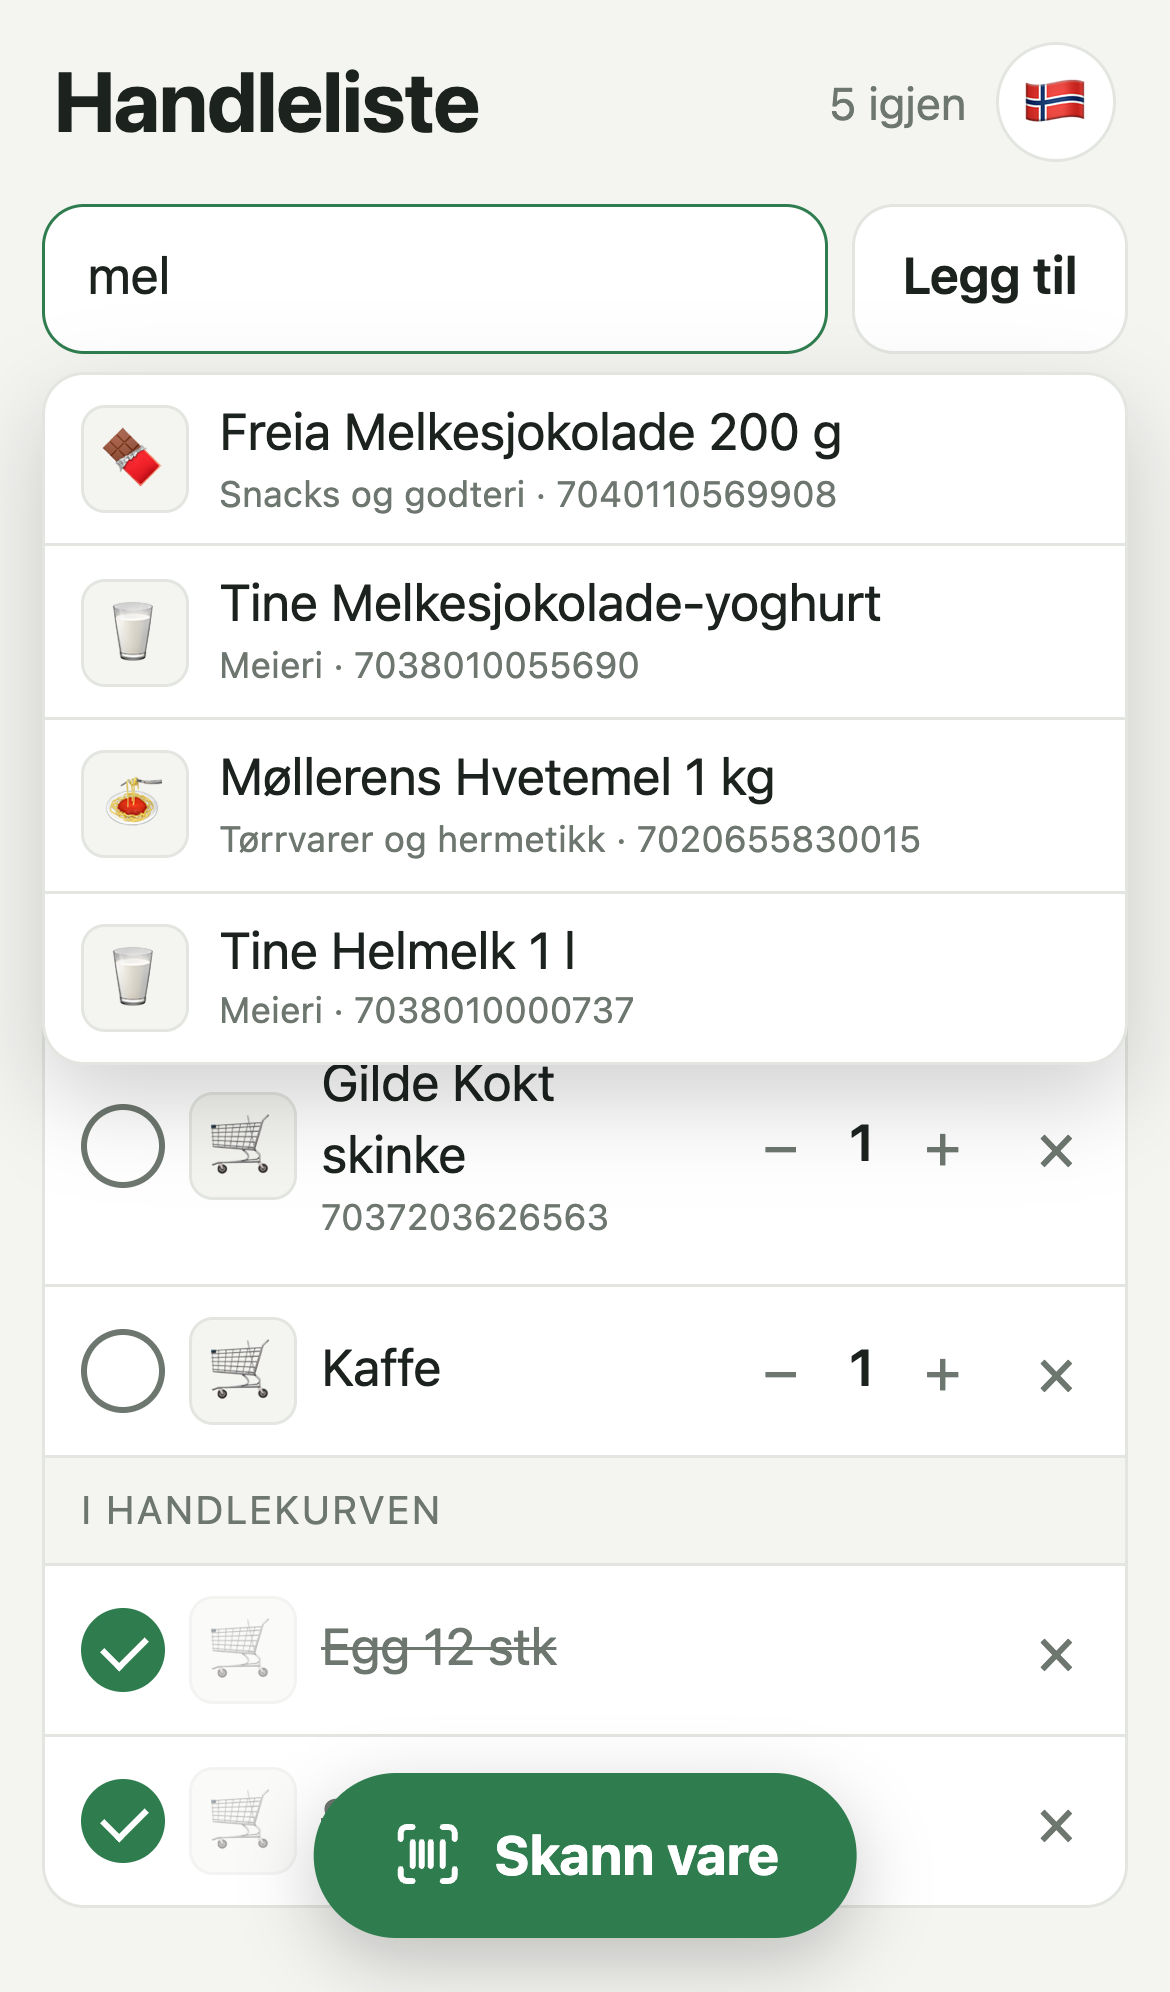
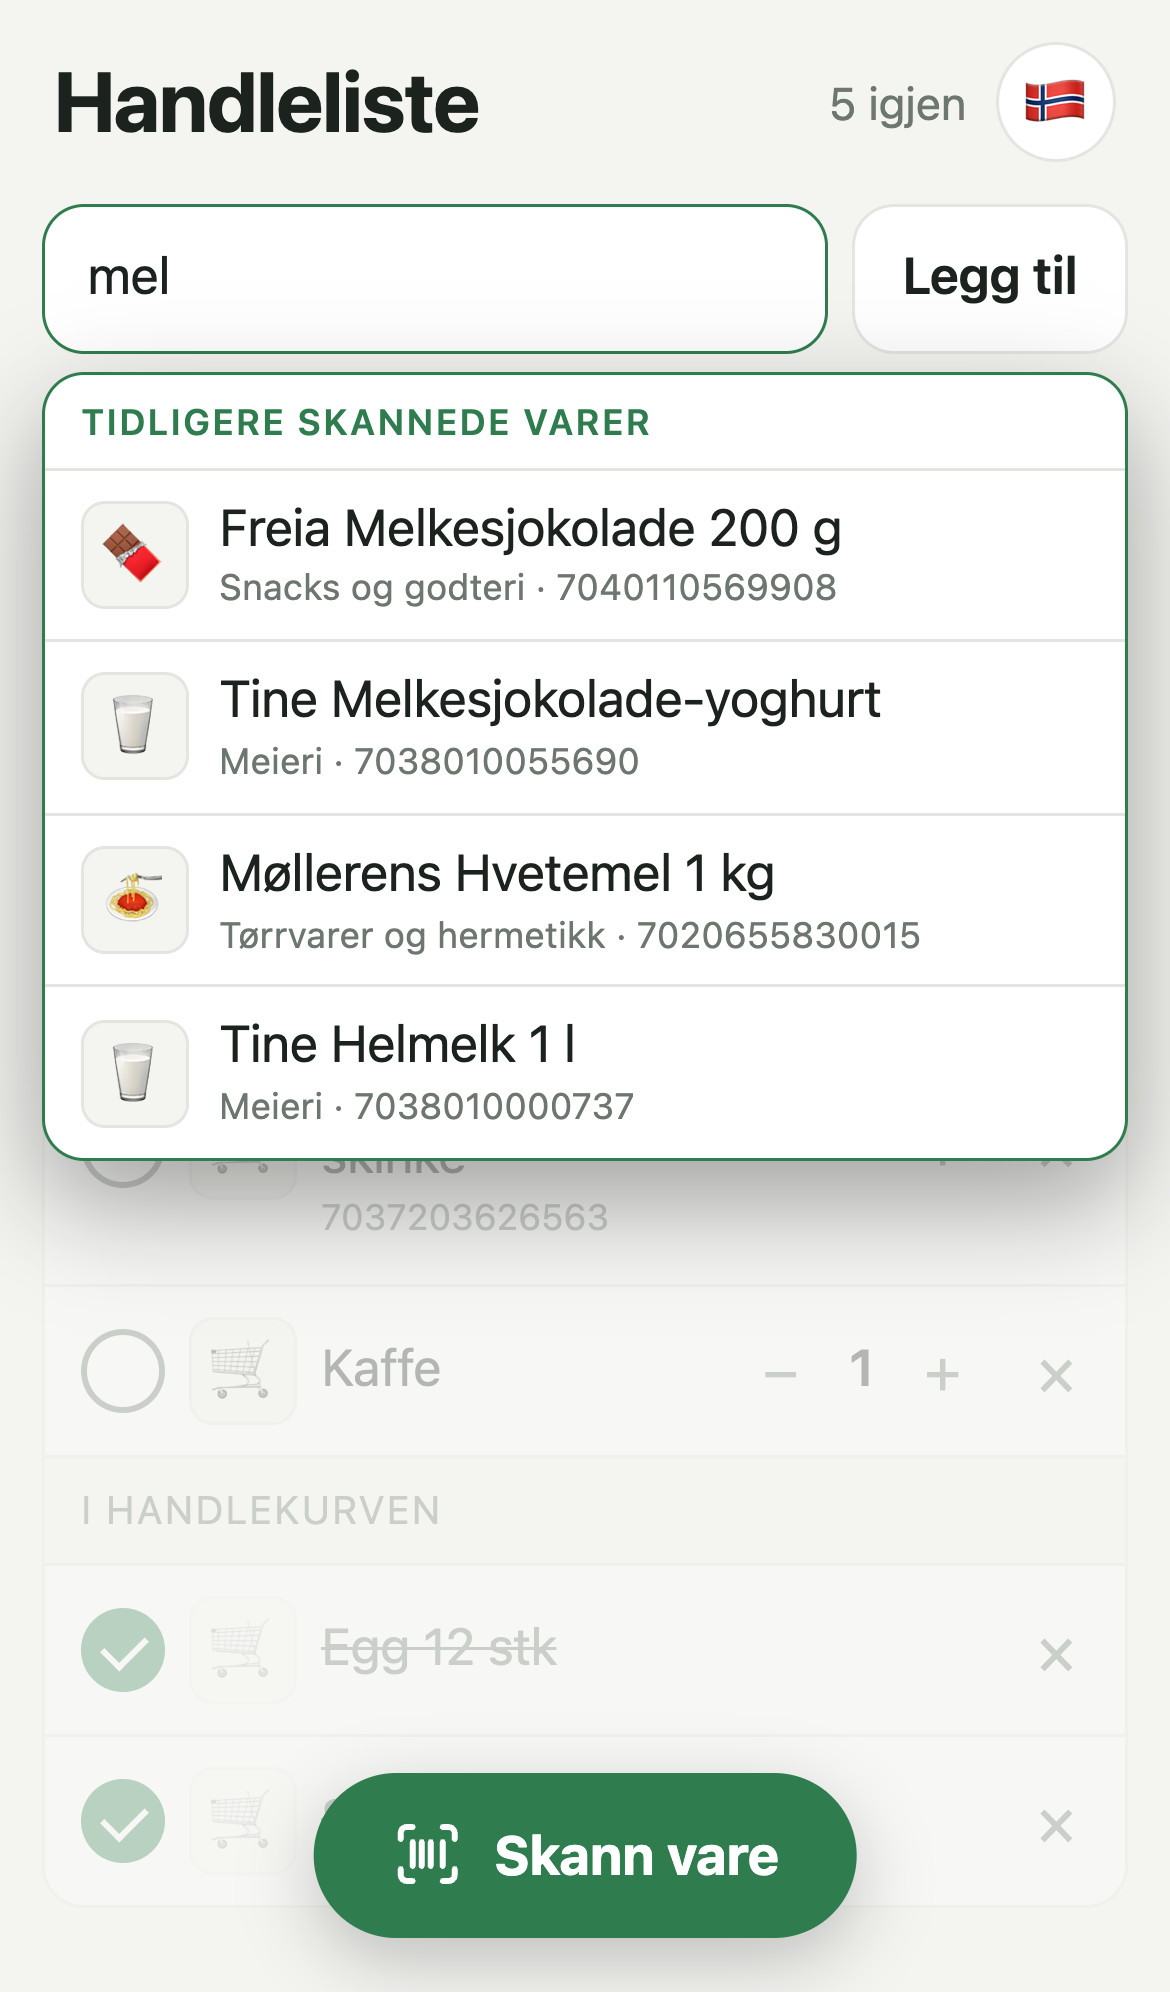
change to make history more stand out

diff --git a/index.html b/index.html
@@ -15,12 +15,13 @@
   :root {
     --bg: #f4f5f1; --card: #ffffff; --text: #1c231f; --muted: #6d766f;
     --line: #e3e6e0; --accent: #2f7d4f; --accent-ink: #ffffff; --danger: #b3412f;
-    --radius: 14px;
+    --radius: 14px; --pop: #ffffff; --pop-active: #e8f1eb; --pop-line: #e3e6e0;
   }
   @media (prefers-color-scheme: dark) {
     :root {
       --bg: #121513; --card: #1c211e; --text: #e9ece9; --muted: #8e978f;
       --line: #2a302c; --accent: #4fa374; --accent-ink: #0d140f; --danger: #e0715d;
+      --pop: #2b332e; --pop-active: #36443b; --pop-line: #3d4842;
     }
   }
   * { box-sizing: border-box; -webkit-tap-highlight-color: transparent; }
@@ -54,14 +55,19 @@
   }
 
   /* Suggestions from previously scanned items, under the add field */
+  /* Its own raised surface with an accent border, and the list behind is dimmed, so the two never blend */
   #suggest { position: absolute; left: 0; right: 0; top: calc(100% + 6px); z-index: 20;
-    list-style: none; margin: 0; padding: 0; background: var(--card); border: 1px solid var(--line);
-    border-radius: var(--radius); overflow: hidden; box-shadow: 0 12px 30px rgba(0,0,0,.18); }
+    list-style: none; margin: 0; padding: 0; background: var(--pop); border: 1.5px solid var(--accent);
+    border-radius: var(--radius); overflow: hidden; box-shadow: 0 14px 36px rgba(0,0,0,.35); }
   #suggest[hidden] { display: none; }
+  /* Heading from the (translated) aria-label */
+  #suggest::before { content: attr(aria-label); display: block; padding: 8px 12px 6px; font-size: 12px;
+    font-weight: 600; color: var(--accent); text-transform: uppercase; letter-spacing: .05em; }
   .sug { display: flex; align-items: center; gap: 10px; padding: 8px 12px; min-height: 52px;
-    border-top: 1px solid var(--line); cursor: pointer; }
-  .sug:first-child { border-top: 0; }
-  .sug.active, .sug:active { background: var(--line); }
+    border-top: 1px solid var(--pop-line); cursor: pointer; }
+  .sug.active, .sug:active { background: var(--pop-active); }
+  #list, #empty, #clearDone { transition: opacity .15s; }
+  body.suggesting #list, body.suggesting #empty, body.suggesting #clearDone { opacity: .3; }
   .sug-name { flex: 1; min-width: 0; }
   .sug-name small { display: block; color: var(--muted); font-size: 12px;
     white-space: nowrap; overflow: hidden; text-overflow: ellipsis; }
@@ -607,6 +613,7 @@ function renderSuggestions() {
   }));
   const open = suggestions.length > 0;
   suggestEl.hidden = !open;
+  document.body.classList.toggle("suggesting", open);
   addInput.setAttribute("aria-expanded", String(open));
   if (activeSug >= 0) addInput.setAttribute("aria-activedescendant", `sug-${activeSug}`);
   else addInput.removeAttribute("aria-activedescendant");

diff --git a/sw.js b/sw.js
@@ -1,5 +1,5 @@
 // Bump the version on every change, otherwise iOS may keep serving the old files from cache.
-const CACHE = "handleliste-v8";
+const CACHE = "handleliste-v9";
 // Product images live in their own cache so they survive app updates (shown offline in the store)
 const IMAGE_CACHE = "handleliste-images-v1";
 const IMAGE_ORIGIN = "https://images.openfoodfacts.org";
